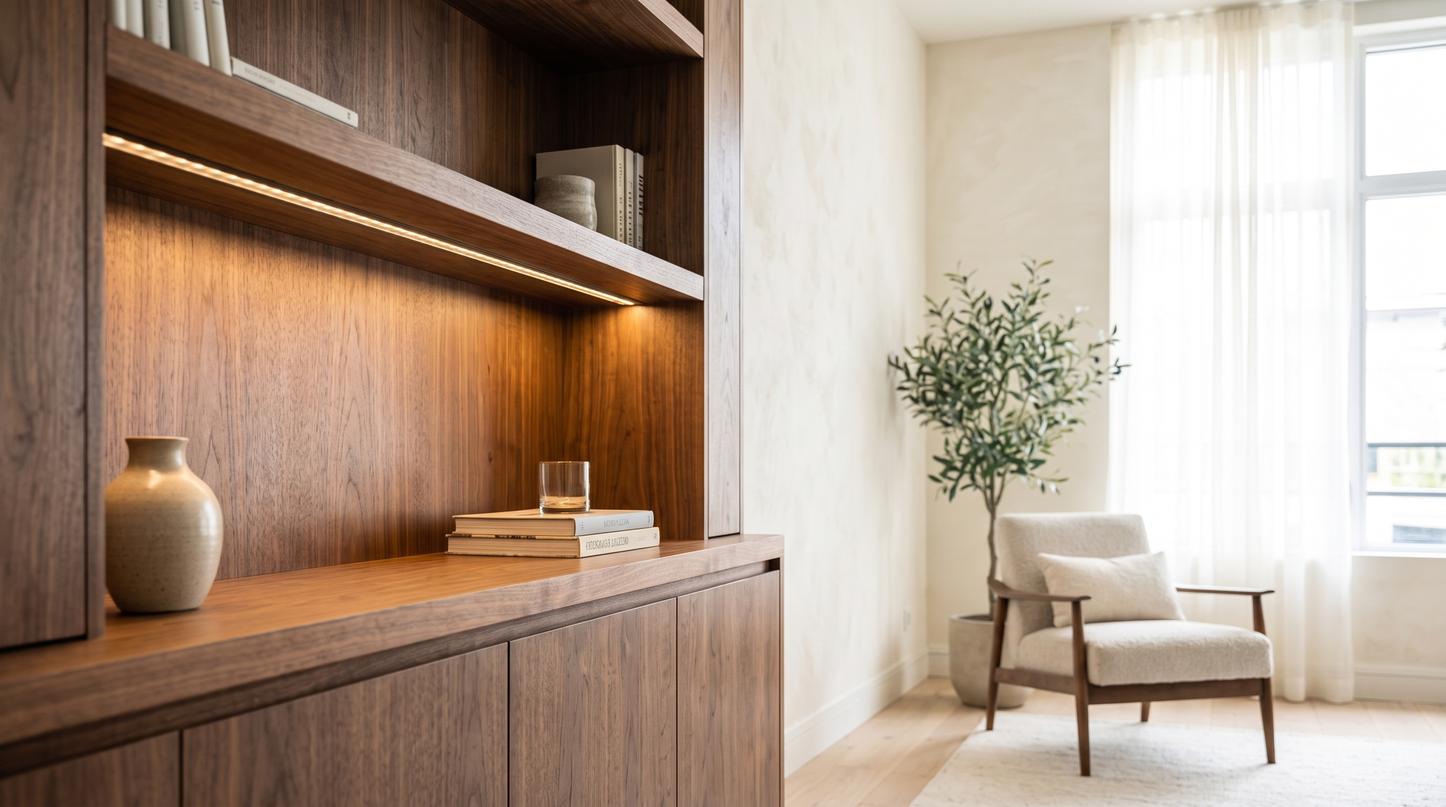
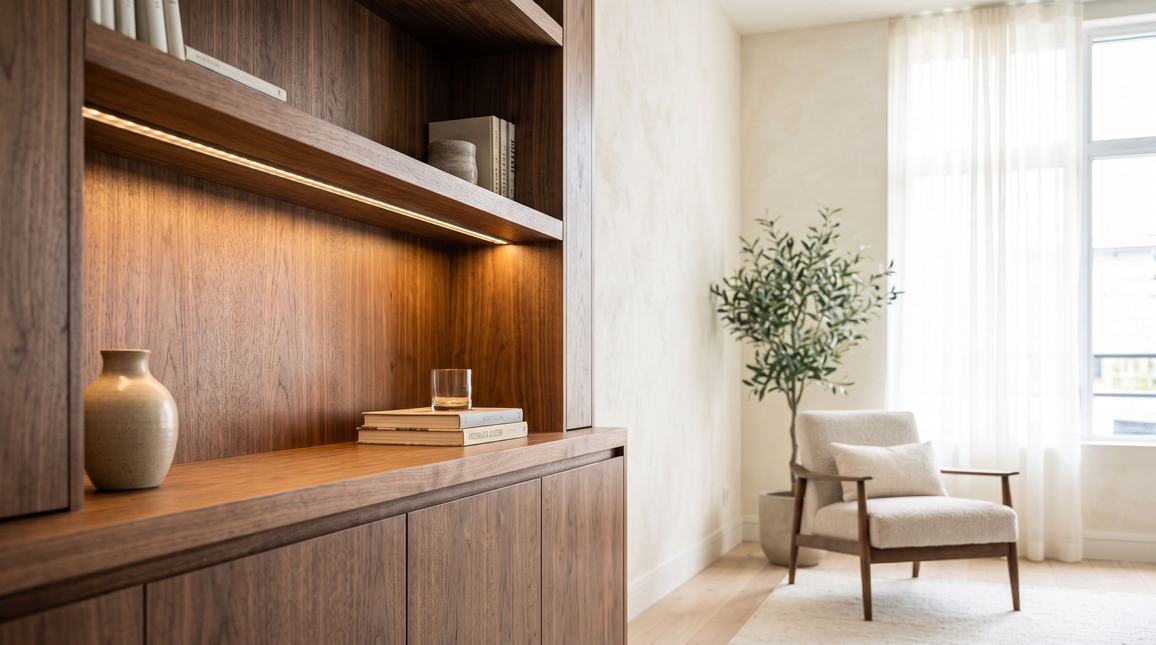
Topo da home: a fita de LED acende sozinha ao abrir o site
A página abre com a foto da estante com a fita apagada e, em menos de
1 segundo, a foto acesa aparece por cima aos poucos; o botão de
orçamento ganha o brilho junto. Sem JS ou com movimento reduzido, a
foto acesa aparece direto. As duas fotos foram reduzidas pra 2200px
(0,6 MB juntas, antes a foto sozinha tinha 2,2 MB).

Changed region(s): [[0.34, 0.6189, 0.4636, 0.7117], [0.7727, 0.8664, 0.8036, 0.8974]]

diff --git a/index.html b/index.html
@@ -24,6 +24,7 @@
 <link href="https://fonts.googleapis.com/css2?family=Fraunces:ital,opsz,wght@0,9..144,300..600;1,9..144,300..500&family=Manrope:wght@300..700&display=swap" rel="stylesheet">
 <link rel="stylesheet" href="css/style.css">
 <link rel="stylesheet" href="css/home.css">
+<script>document.documentElement.classList.add("js");</script>
 </head>
 <body>
 
@@ -74,7 +75,8 @@
      comunica "empresa de iluminação" sem depender de clique.
      ====================================================================== -->
 <section class="hero" id="topo">
-  <img src="images/hero-ambiente-iluminado.jpeg" alt="Estante de madeira com fita de LED acesa embaixo da prateleira, ambiente claro" fetchpriority="high">
+  <img class="hero-off" src="images/hero-ambiente-apagado.jpeg" alt="" fetchpriority="high">
+  <img class="hero-on" src="images/hero-ambiente-iluminado.jpeg" alt="Estante de madeira com fita de LED acesa embaixo da prateleira, ambiente claro" fetchpriority="high">
   <div class="scrim"></div>
 
   <div class="hero-copy">
@@ -352,6 +354,29 @@
   /* Nav (troca de fundo ao rolar), menu mobile e ano do rodapé agora ficam
      em js/main.js (compartilhado com as páginas de produto). Aqui só entra
      o comportamento específico desta página. */
+
+  /* =====================================================================
+     HERO — espera as duas fotos carregarem e acende a fita.
+     ===================================================================== */
+  (function(){
+    var hero = document.querySelector(".hero");
+    if (!hero) return;
+    var on = hero.querySelector(".hero-on"), off = hero.querySelector(".hero-off");
+    if (!on || !off) return;
+    function pronta(img){
+      return new Promise(function(ok){
+        if (img.complete) return ok();
+        img.addEventListener("load", ok, { once: true });
+        img.addEventListener("error", ok, { once: true });
+      });
+    }
+    Promise.all([pronta(on), pronta(off)]).then(function(){
+      setTimeout(function(){
+        hero.classList.add("is-lit", "is-acendendo");
+        setTimeout(function(){ hero.classList.remove("is-acendendo"); }, 2000);
+      }, 700);
+    });
+  })();
 
   /* =====================================================================
      REVEAL AO ROLAR — seção institucional: a foto entra da esquerda, o

diff --git a/css/home.css b/css/home.css
@@ -29,6 +29,21 @@
   display: block;
 }
 
+/* a página abre com a fita apagada e a luz acende sozinha: a foto acesa
+   fica por cima da apagada e aparece aos poucos. Só com JS ligado (.js),
+   senão a foto acesa aparece direto. */
+.js .hero img.hero-on{ opacity: 0; transition: opacity 1.8s cubic-bezier(.4,0,.2,1); }
+.js .hero.is-lit img.hero-on{ opacity: 1; }
+.js .hero:not(.is-lit) .hero-copy .hero-cta{
+  box-shadow: inset 0 1px 0 rgba(255,255,255,.55), inset 0 -1px 0 rgba(120,70,0,.2);
+}
+.hero.is-acendendo .hero-copy .hero-cta{
+  transition: transform var(--t-rapido) var(--ease), filter var(--t-medio) var(--ease), box-shadow 1.8s cubic-bezier(.4,0,.2,1);
+}
+@media (prefers-reduced-motion: reduce){
+  .js .hero img.hero-on{ transition: none; opacity: 1; }
+}
+
 .hero .scrim{
   position: absolute;
   inset: 0;
